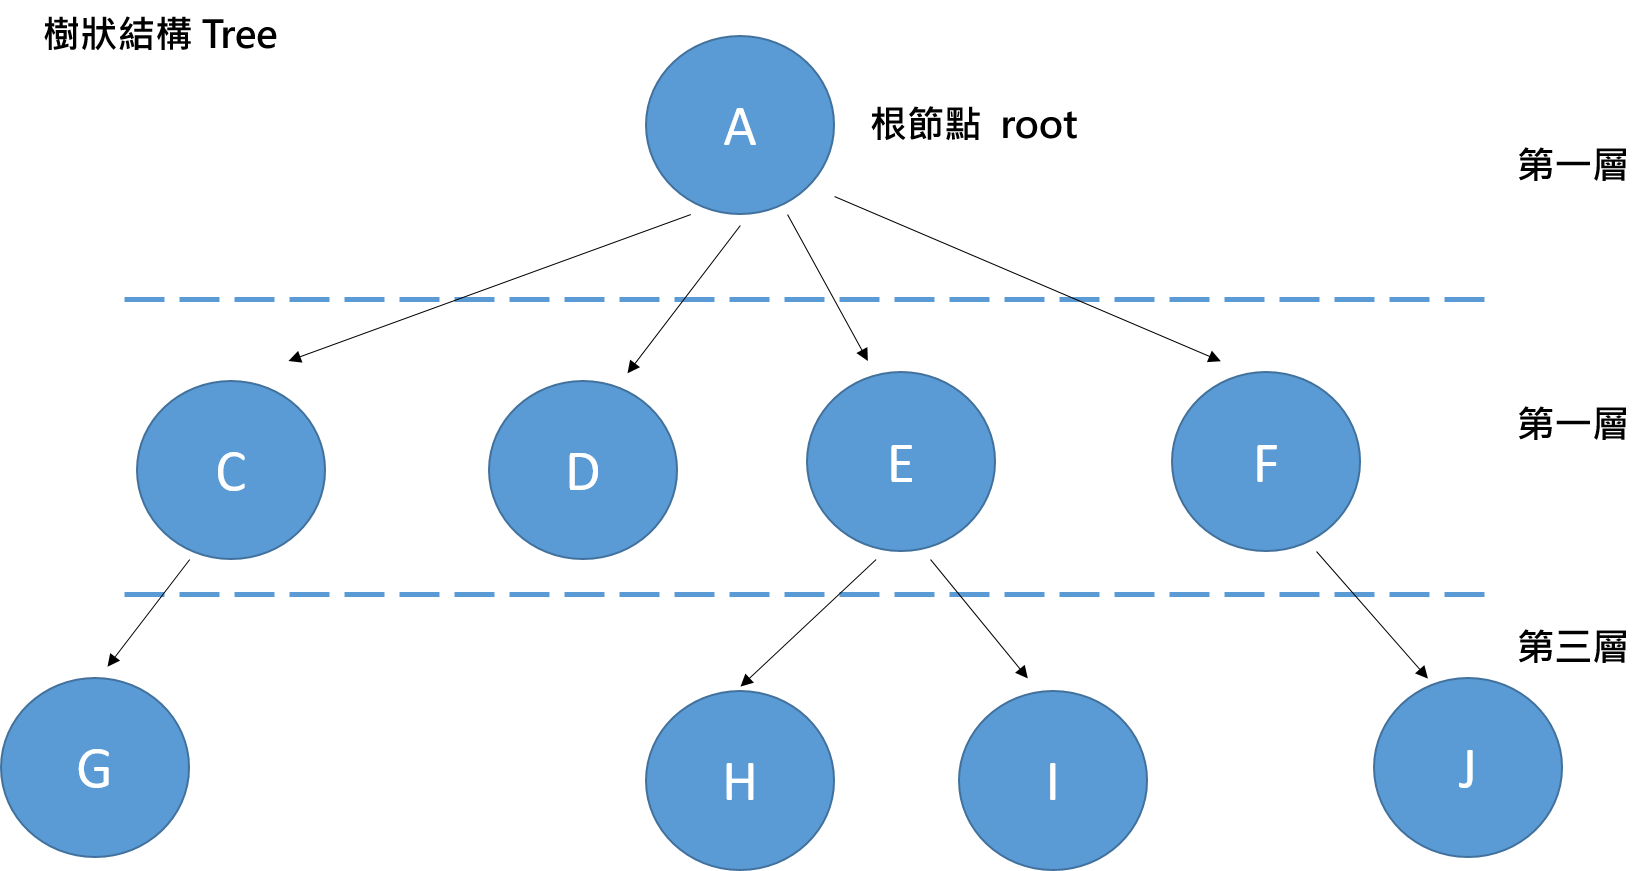
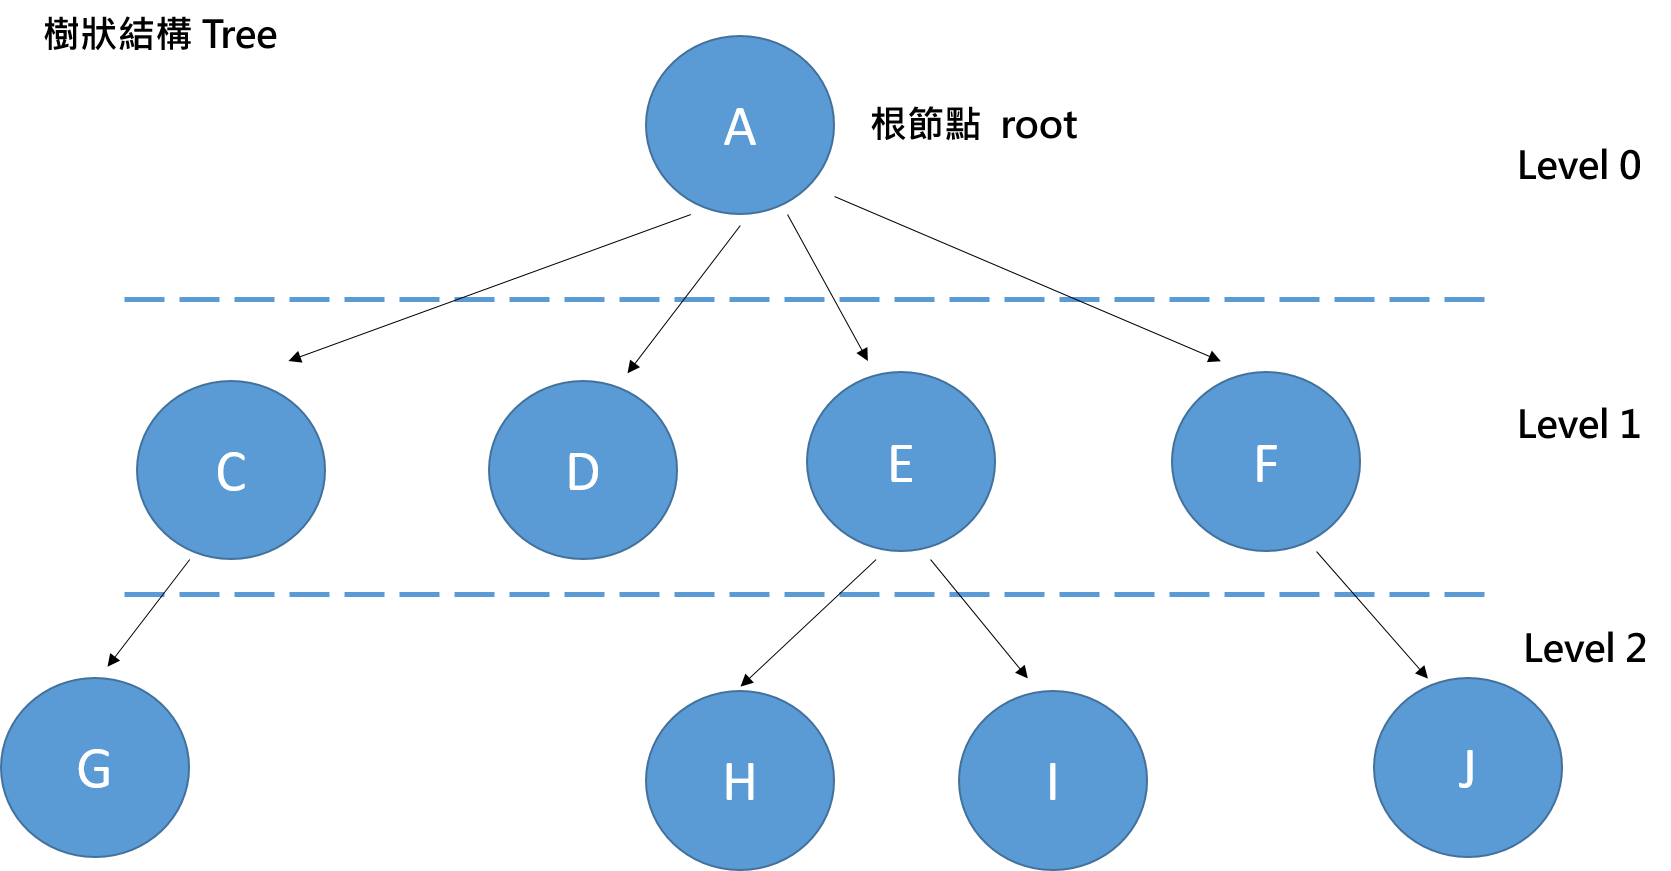
Modify Binary Tree Introduction

diff --git a/binary_tree/Readme.md b/binary_tree/Readme.md
@@ -53,7 +53,7 @@
 **實用算法**
 
 + 二元樹中的第i層，最多可以具有2的i - 1次方個節點數量
-+ 樹高度為k的二元樹，最多可以擁有2的k+1次方減1的節點數量，而節點數量與此公式結果計算出來的相等，稱為**滿二元樹**
++ 樹高度為k的二元樹，最多可以擁有2的k+1次方減1的節點數量，而節點數量與此公式結果計算出來的相等，稱為**完滿二元樹**
 
 
 
@@ -67,9 +67,63 @@
 
 
 
+## 3. 二元樹種類 - 完滿二元樹、完整二元樹、歪斜樹
 
 
-## 3. 二元樹 適用範圍?
+
+### 完滿二元樹 Fully Binary Tree
+
+指的就是沒有任何一個節點會只有單獨連接的左或右節點，而計算節點數量就可以透過公式來達成
+
+![image4](images\image4.png)
+
+
+
+
+
+![image3](images\image3.png)
+
+
+
+
+
+
+
+
+
+### 完整二元樹 Complete Binary Tree
+
+如果高度為h，其節點的數量會小於等於公式
+
+![image5](images\image5.png)
+
+
+
+須符合從上到下，從左到右的規則，也就是可以只有左節點，但不能只有右節點
+
+
+
+![image6](images\image6.png)
+
+
+
+
+
+
+
+### 歪斜樹 Skewed Binary Tree
+
+只有一邊的節點，只有左邊節點就為左歪斜樹，右邊就為右歪斜樹
+
+
+
+![image7](images\image7.png)
+
+
+
+
+
+## 4. 二元樹 適用範圍?
 
 
 
@@ -94,7 +148,6 @@ https://zh.wikipedia.org/wiki/%E4%BA%8C%E5%8F%89%E6%A0%91
 https://zh.wikipedia.org/wiki/%E7%BA%BF%E7%B4%A2%E4%BA%8C%E5%8F%89%E6%A0%91
 
 http://wayne.cif.takming.edu.tw/datastru/tree.pdf
-
 
 
 

diff --git a/binary_tree/Balanced_Binary_Tree_110/Readme.md b/binary_tree/Balanced_Binary_Tree_110/Readme.md
@@ -1,0 +1,57 @@
+# LeetCode學習筆記 - Binary Tree方法 - LeetCode第110題 - Balanced Binary Tree
+
+
+
+## 1. 題目
+
+
+
+![image1](images\image1.PNG)
+
+
+
+
+
+**說明:** 給定一個二元樹，決定它的高度是否平衡
+
+
+
+一個高度平衡的二元樹被定義為:
+
++ **一個二元樹中，每個節點的左子樹和右子樹中的高度不會差超過1**
+
++ **其左右子樹也為一個平衡二元樹**
+
+
+
+**計算平衡樹:**
+
++ 計算左右子樹的深度: 取一棵樹的高度(深度)，就是把左右子樹高度的最大值 + 1
+
+
+
+**檢查是否為平衡樹**
+
++ 檢查每個分節點的高度(深度)，可以順便檢查其左右子樹是否為平衡二元樹
+
++ 不為平衡樹的話，可以將結果記錄到上一層的變數，或是傳回-1(因為它已經確定不會是平衡二元樹)
+
+
+
+
+
+## 2. 實作
+
+
+
+**解法:**
+
+1. 調用遞迴函式，來不斷檢查計算其節點的高度(深度)
+
+2. 如果root為None，就回傳0(因為不會有深度)
+
+3. 開始計算左子樹和右子樹的深度，並取差值
+   + 如果有一邊(單邊: 左子樹或右子樹)深度為-1，表示有一邊不為平衡二元樹，就直接回傳-1(因為不能為平衡二元樹了)
+
+
+

diff --git a/binary_tree/Same_Tree_100/Readme.md b/binary_tree/Same_Tree_100/Readme.md
@@ -41,7 +41,7 @@
 + 先拿root比較，是否都存在或都不存在，如果都不存在直接回傳True，如果都存在要還要比較直是否相等，如果不相等回傳False，如果相等就要繼續進行左子樹和右子樹的各自比較
 + 如果左子樹與右子樹相等，那這兩棵二元樹就相同
 
-
+a. 
 
 ```Python
 # Definition for a binary tree node.
@@ -67,6 +67,28 @@ class Solution:
         ## Recursion 遞迴調用函式，來檢查下一個左右子樹的節點是否相同(左子樹根左子樹比、右子樹跟右子樹比
         return self.isSameTree(p.left, q.left) and self.isSameTree(p.right, q.right)
 ```
+
+b. 
+
+```Python
+class Solution:
+    def isSameTree(self, p: TreeNode, q: TreeNode) -> bool:
+        if not p and not q:
+            return True
+        if not p or not q:
+            return False
+        return p.val == q.val and self.isSameTree(p.right, q.right) and self.isSameTree(p.left, q.left)
+```
+
+
+
+
+
+
+
+
+
+
 
 
 
